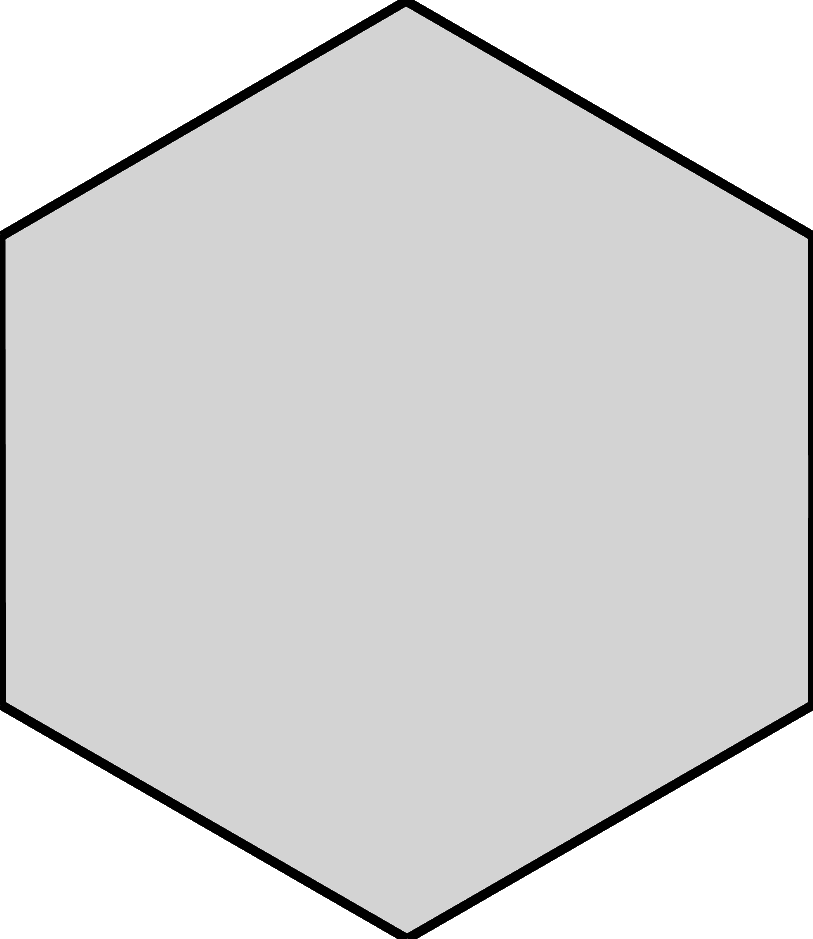
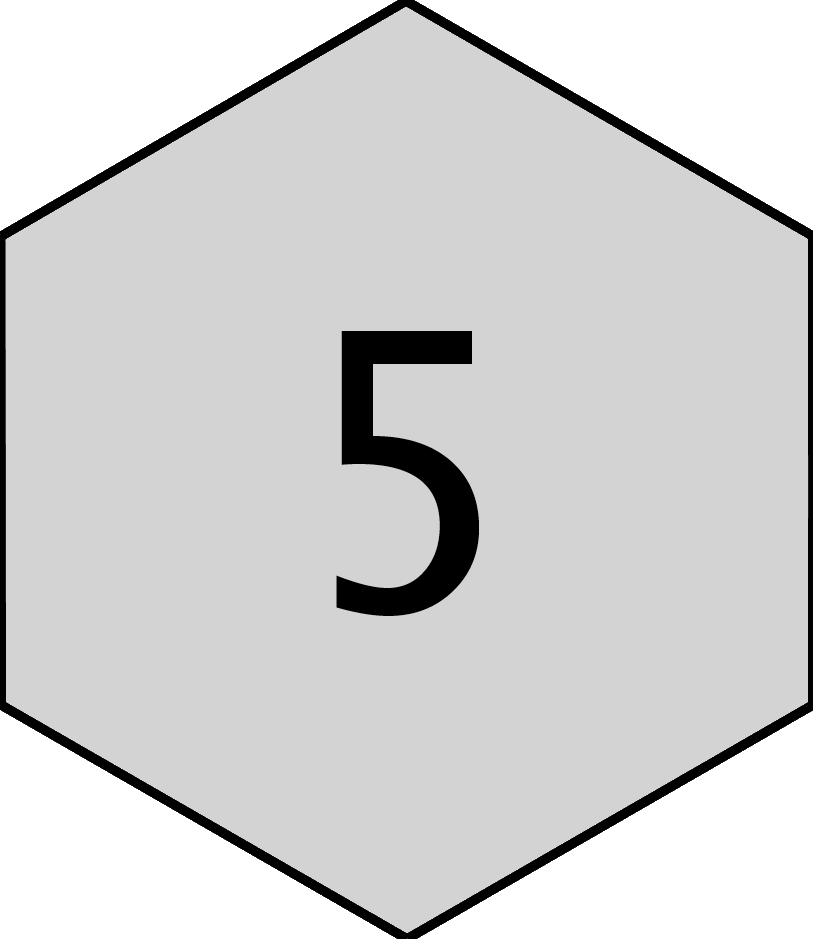
#14: Added number tiles and left/right click functionality.

Changed region(s): [[0.3998, 0.3397, 0.615, 0.6794]]

diff --git a/MultiSweeper/src/game/Sweeper.java b/MultiSweeper/src/game/Sweeper.java
@@ -3,6 +3,8 @@ package game;
 import game.analyzer.Analyzer;
 import game.field.Field;
 import game.util.Tile;
+import game.values.MaskValue;
+import game.values.TileValue;
 import game.values.Tiles;
 import java.awt.Color;
 import java.awt.Graphics;
@@ -17,7 +19,7 @@ public abstract class Sweeper
 	
 	protected BufferedImage	mImage;
 	
-	protected int			mWidth	= 20, mHeight = 20, mBombs = 150, mWindowWidth, mWindowHeight;
+	protected int			mWidth	= 20, mHeight = 20, mBombs = 100, mWindowWidth, mWindowHeight;
 	
 	private final Viewer	mViewer;
 	
@@ -161,13 +163,51 @@ public abstract class Sweeper
 		else System.exit(0);
 	}
 	
+	public void openTile(int aX, int aY)
+	{
+		MaskValue mask = mField.getMaskValue(aX, aY);
+		if (mask.isNothing())
+		{
+			TileValue tile = mField.getTileValue(aX, aY);
+			mAnalyzer.openTile(new Tile(aX, aY));
+			if (tile.isBomb()) die(aX, aY);
+		}
+	}
+	
+	public void markBomb(int aX, int aY)
+	{
+		MaskValue mask = mField.getMaskValue(aX, aY);
+		if ( !mask.isOpen())
+		{
+			if (mask.isNothing()) mField.setMask(aX, aY, mField.getMasks().getFlag().getId());
+			else if (mask.isFlag()) mField.setMask(aX, aY, mField.getMasks().getQuestion().getId());
+			else mField.setMask(aX, aY, mField.getMasks().getNothing().getId());
+		}
+	}
+	
+	public void remarkBomb(int aX, int aY)
+	{
+		MaskValue mask = mField.getMaskValue(aX, aY);
+		if ( !mask.isOpen()) mField.setMask(aX, aY, mField.getMasks().getNothing().getId());
+	}
+	
+	protected void leftClick(int aX, int aY)
+	{
+		openTile(aX, aY);
+	}
+	
+	protected void rightClick(int aX, int aY)
+	{
+		markBomb(aX, aY);
+	}
+	
+	protected abstract void win();
+	
+	protected abstract void die(int aX, int aY);
+	
 	protected abstract void renderField(Graphics g);
 	
 	protected abstract void renderSelected(Graphics g);
-	
-	protected abstract void leftClick(int aX, int aY);
-	
-	protected abstract void rightClick(int aX, int aY);
 	
 	public abstract void key(int aKey, boolean aDown);
 	

diff --git a/MultiSweeper/src/game/analyzer/Analyzer.java b/MultiSweeper/src/game/analyzer/Analyzer.java
@@ -2,6 +2,7 @@ package game.analyzer;
 
 import game.field.Field;
 import game.util.Tile;
+import game.values.TileValue;
 import java.util.HashSet;
 
 public class Analyzer
@@ -66,6 +67,13 @@ public class Analyzer
 		return false;
 	}
 	
+	private HashSet<Tile> getContainingArea(Tile aTile)
+	{
+		for (HashSet<Tile> area : mAreas)
+			if (area.contains(aTile)) return area;
+		return null;
+	}
+	
 	public void open(int aX, int aY)
 	{
 		final Tile tile = new Tile(aX, aY);
@@ -94,14 +102,25 @@ public class Analyzer
 	private void openArea(HashSet<Tile> aArea)
 	{
 		for (Tile tile : aArea)
-			openTile(tile);
+			openAreaTile(tile);
+	}
+	
+	private void openAreaTile(Tile aTile)
+	{
+		final byte openId = mField.getMasks().getOpen().getId();
+		mField.setMask(aTile, openId);
+		TileValue tileValue;
+		for (Tile tile : mField.getBorderOf(aTile))
+		{
+			tileValue = mField.getTileValue(tile);
+			if ( !tileValue.isEmpty() && !tileValue.isBomb()) mField.setMask(tile, openId);
+		}
 	}
 	
 	public void openTile(Tile aTile)
 	{
 		final byte openId = mField.getMasks().getOpen().getId();
-		mField.setMask(aTile, openId);
-		for (Tile tile : mField.getBorderOf(aTile))
-			mField.setMask(tile, openId);
+		if (mField.getTileValue(aTile).isEmpty() && isInsideAreas(aTile)) openArea(getContainingArea(aTile));
+		else mField.setMask(aTile, openId);
 	}
 }

diff --git a/MultiSweeper/src/game/values/Masks.java b/MultiSweeper/src/game/values/Masks.java
@@ -5,15 +5,32 @@ import log.Log;
 
 public abstract class Masks
 {
+	protected enum MaskState
+	{
+		NOTHING, OPEN, QUESTION, FLAG;
+	}
+	
 	private final MaskValue[]	mMasks;
 	
-	private final MaskValue		mOpen, mNothing;
+	private final MaskValue		mOpen, mNothing, mQuestion, mFlag;
 	
 	protected Masks()
 	{
 		mMasks = createMasks();
 		mOpen = findOpen();
 		mNothing = findNothing();
+		mQuestion = findQuestion();
+		mFlag = findFlag();
+	}
+	
+	public MaskValue getFlag()
+	{
+		return mFlag;
+	}
+	
+	public MaskValue getQuestion()
+	{
+		return mQuestion;
 	}
 	
 	public MaskValue getOpen()
@@ -29,6 +46,24 @@ public abstract class Masks
 	public MaskValue get(byte aId)
 	{
 		return mMasks[aId];
+	}
+	
+	private MaskValue findFlag()
+	{
+		for (MaskValue mask : mMasks)
+			if (mask.isFlag()) return mask;
+		Log.exception("No Flag Mask Defined!");
+		Sweeper.forceStop();
+		return null;
+	}
+	
+	private MaskValue findQuestion()
+	{
+		for (MaskValue mask : mMasks)
+			if (mask.isQuestion()) return mask;
+		Log.exception("No Question Mask Defined!");
+		Sweeper.forceStop();
+		return null;
 	}
 	
 	private MaskValue findNothing()

diff --git a/MultiSweeper/src/game/values/MaskValue.java b/MultiSweeper/src/game/values/MaskValue.java
@@ -1,18 +1,19 @@
 package game.values;
 
+import game.values.Masks.MaskState;
+
 public class MaskValue
 {
-	private final byte	mId;
+	private final byte		mId;
 	
-	private final boolean	mIsOpen, mIsNothing;
+	private final MaskState	mState;
 	
 	private final String	mImage;
 	
-	public MaskValue(int aId, boolean aIsOpen, boolean aIsNothing, String aImage)
+	public MaskValue(int aId, MaskState aState, String aImage)
 	{
 		mId = (byte) aId;
-		mIsOpen = aIsOpen;
-		mIsNothing = aIsNothing;
+		mState = aState;
 		mImage = aImage;
 	}
 	
@@ -26,13 +27,23 @@ public class MaskValue
 		return mId;
 	}
 	
+	public boolean isFlag()
+	{
+		return mState == MaskState.FLAG;
+	}
+	
 	public boolean isNothing()
 	{
-		return mIsNothing;
+		return mState == MaskState.NOTHING;
+	}
+	
+	public boolean isQuestion()
+	{
+		return mState == MaskState.QUESTION;
 	}
 	
 	public boolean isOpen()
 	{
-		return mIsOpen;
+		return mState == MaskState.OPEN;
 	}
 }

diff --git a/MultiSweeper/src/game/HexSweeper.java b/MultiSweeper/src/game/HexSweeper.java
@@ -7,6 +7,7 @@ import game.values.MaskValue;
 import game.values.TileValue;
 import java.awt.Graphics;
 import java.awt.Polygon;
+import log.Log;
 import view.Viewer;
 import data.DataManager;
 
@@ -76,22 +77,9 @@ public class HexSweeper extends Sweeper
 	}
 	
 	@Override
-	protected void leftClick(int aX, int aY)
-	{	
-		
-	}
-	
-	@Override
-	protected void rightClick(int aX, int aY)
-	{	
-		
-	}
-	
-	@Override
 	public void key(int aKey, boolean aDown)
 	{
-		// TODOV Auto-generated method stub
-		
+		// TODO
 	}
 	
 	@Override
@@ -127,5 +115,19 @@ public class HexSweeper extends Sweeper
 	{
 		mTileWidth = mWindowWidth / (mWidth + 0.5f);
 		mTileHeight = mWindowHeight / mHeight;
+	}
+	
+	@Override
+	protected void die(int aX, int aY)
+	{
+		// TODO
+		Log.log("Died!");
+	}
+	
+	@Override
+	protected void win()
+	{
+		// TODO
+		Log.log("Win!");
 	}
 }

diff --git a/MultiSweeper/src/game/values/sets/HexMasks.java b/MultiSweeper/src/game/values/sets/HexMasks.java
@@ -8,6 +8,7 @@ public class HexMasks extends Masks
 	@Override
 	protected MaskValue[] createMasks()
 	{
-		return new MaskValue[] { new MaskValue(0, true, false, "hexMaskOpen"), new MaskValue(1, false, true, "hexMaskNothing") };
+		return new MaskValue[] { new MaskValue(0, MaskState.OPEN, "hexMaskOpen"), new MaskValue(1, MaskState.NOTHING, "hexMaskNothing"), new MaskValue(2, MaskState.QUESTION, "hexMaskQuestion"),
+				new MaskValue(3, MaskState.FLAG, "hexMaskFlag") };
 	}
 }
